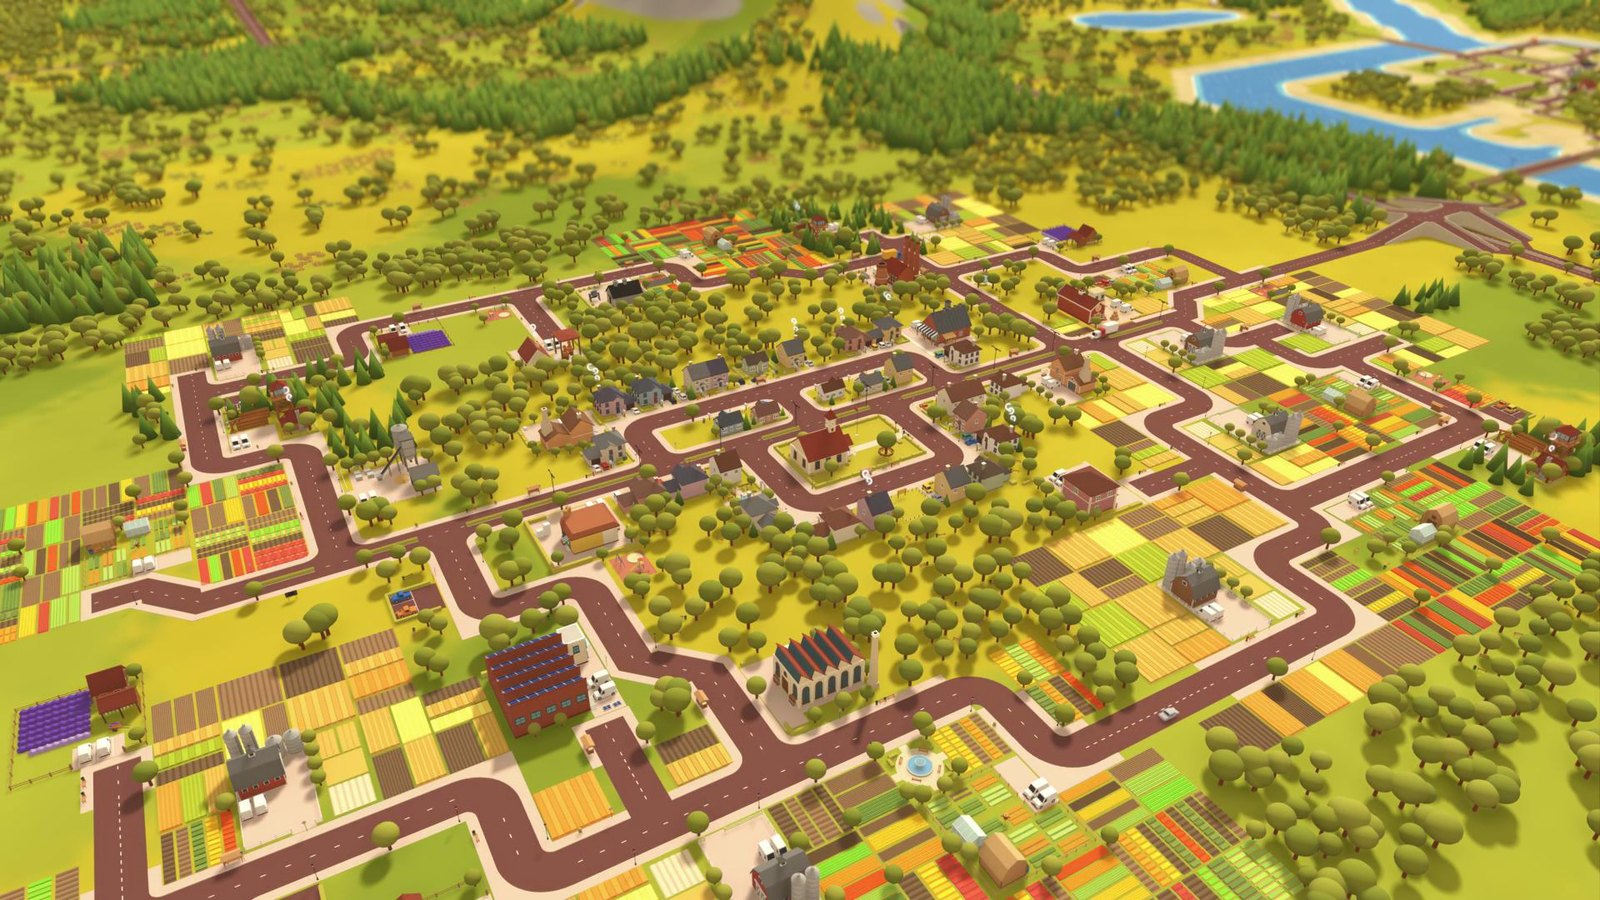
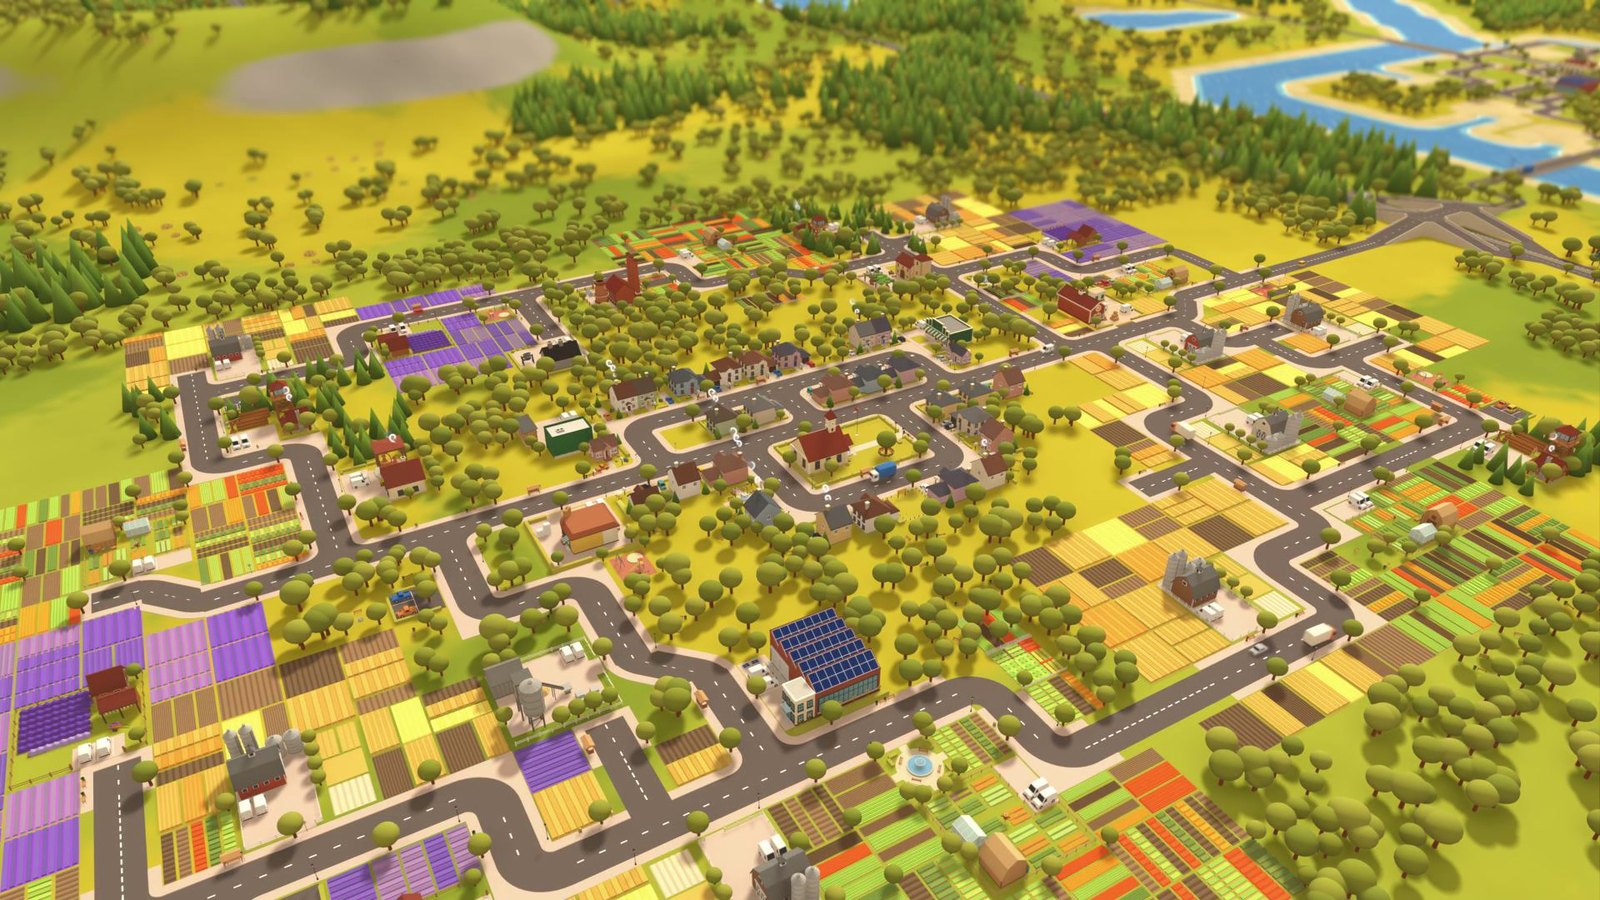
Screenshots and cover from Build 14 (new models, the smaller Kings Harbour)

diff --git a/index.html b/index.html
@@ -7,11 +7,11 @@
 <meta name="description" content="RushTown is a cozy mobile logistics game: build production chains, run your own vans and trucks, and help the villages and towns of a river valley thrive.">
 <meta property="og:title" content="RushTown">
 <meta property="og:description" content="Run a cozy logistics company in a living valley. A mobile game for Android, in testing now.">
-<meta property="og:image" content="https://rushtowngame.com/media/hero-small.jpg?v=20261010">
+<meta property="og:image" content="https://rushtowngame.com/media/hero-small.jpg?v=20261011">
 <meta property="og:url" content="https://rushtowngame.com/">
 <meta name="theme-color" content="#FBE9D2">
 <link rel="icon" href="media/logo.png">
-<link rel="preload" as="image" href="media/hero.jpg?v=20261010">
+<link rel="preload" as="image" href="media/hero.jpg?v=20261011">
 <link rel="stylesheet" href="site.css">
 </head>
 <body>
@@ -30,9 +30,9 @@
 
 <main>
   <!-- HERO. When the trailer is final, swap the div.bg for:
-       <video class="bg" src="media/trailer-loop.mp4" poster="media/hero.jpg?v=20261010" autoplay muted loop playsinline></video> -->
+       <video class="bg" src="media/trailer-loop.mp4" poster="media/hero.jpg?v=20261011" autoplay muted loop playsinline></video> -->
   <section class="hero">
-    <div class="bg" style="background-image:url('media/hero.jpg?v=20261010')" role="img" aria-label="Maplebrook, a farming village by the river"></div>
+    <div class="bg" style="background-image:url('media/hero.jpg?v=20261011')" role="img" aria-label="Maplebrook, a farming village by the river"></div>
     <div class="inner">
       <img class="logo" src="media/logo.png" alt="RushTown" width="560" height="279">
       <h1>Run a cozy logistics company in a living valley.</h1>
@@ -60,19 +60,19 @@
       <div class="slides">
         <div class="track" id="track">
           <article class="slide" id="s1">
-            <figure><img src="media/shots/chains.jpg?v=20261010" alt="Farm fields and workshops round a village" loading="lazy" width="1600" height="900"></figure>
+            <figure><img src="media/shots/chains.jpg?v=20261011" alt="Farm fields and workshops round a village" loading="lazy" width="1600" height="900"></figure>
             <div><span class="num">01 / 04</span><h3>Production chains</h3><p>Grain to flour to bread, sheep to wool to clothes. Every good has a chain, and every chain needs its places. Mills by the river even work faster.</p></div>
           </article>
           <article class="slide" id="s2">
-            <figure><img src="media/shots/fleet.jpg?v=20261010" alt="A village street with homes and shops" loading="lazy" width="1600" height="900"></figure>
+            <figure><img src="media/shots/fleet.jpg?v=20261011" alt="A village street with homes and shops" loading="lazy" width="1600" height="900"></figure>
             <div><span class="num">02 / 04</span><h3>Your own fleet</h3><p>Vans and trucks drive real roads between farms, workshops, warehouses and towns. You plan the routes, stop by stop.</p></div>
           </article>
           <article class="slide" id="s3">
-            <figure><img src="media/shots/homes.jpg?v=20261010" alt="A town at night, its windows lit" loading="lazy" width="1600" height="900"></figure>
+            <figure><img src="media/shots/homes.jpg?v=20261011" alt="A town at night, its windows lit" loading="lazy" width="1600" height="900"></figure>
             <div><span class="num">03 / 04</span><h3>Homes move up</h3><p>Households move in when you keep them supplied. Bring the right goods and building materials, and homes climb their ladder all the way to tower villas.</p></div>
           </article>
           <article class="slide" id="s4">
-            <figure><img src="media/shots/valley.jpg?v=20261010b" alt="The whole river valley in the morning" loading="lazy" width="1600" height="900"></figure>
+            <figure><img src="media/shots/valley.jpg?v=20261011" alt="The whole river valley in the morning" loading="lazy" width="1600" height="900"></figure>
             <div><span class="num">04 / 04</span><h3>A valley to open up</h3><p>New villages and towns come out from under the clouds as your homes move up, from the hills down to the sea.</p></div>
           </article>
         </div>
@@ -106,7 +106,7 @@
   <svg class="wave" viewBox="0 0 1440 60" preserveAspectRatio="none" aria-hidden="true" style="background:#F5D9AE"><path fill="#6d8f4a" d="M0 34 C 300 64 560 10 820 28 S 1240 54 1440 20 V60 H0 Z"/></svg>
 
   <!-- VALLEY BAND + STATS -->
-  <section class="valley" style="background-image:url('media/shots/valley.jpg?v=20261010b')">
+  <section class="valley" style="background-image:url('media/shots/valley.jpg?v=20261011')">
     <div class="wrap">
       <h2>From the hills down to the sea</h2>
       <p>A winding river valley of villages, towns and Kings Harbour on the coast. Start far upriver and work your way down to the sea.</p>
@@ -125,15 +125,15 @@
       <h2 class="title">Latest updates</h2>
       <div class="news">
         <a class="card" href="https://discord.gg/n6D7HrCAY">
-          <img src="media/shots/fleet.jpg?v=20261010" alt="" loading="lazy" width="1600" height="900">
+          <img src="media/shots/fleet.jpg?v=20261011" alt="" loading="lazy" width="1600" height="900">
           <div><time datetime="2026-10-05">5 Oct 2026</time><h3>Build 6: crash logs</h3><p>If the game ever closes, copy its log in one tap and send it to us in Discord.</p></div>
         </a>
         <a class="card" href="https://discord.gg/n6D7HrCAY">
-          <img src="media/shots/homes.jpg?v=20261010" alt="" loading="lazy" width="1600" height="900">
+          <img src="media/shots/homes.jpg?v=20261011" alt="" loading="lazy" width="1600" height="900">
           <div><time datetime="2026-10-04">4 Oct 2026</time><h3>Build 4: quality of life</h3><p>A new build bar, Anno-style statistics, trend marks on needs and homes that move up by themselves.</p></div>
         </a>
         <a class="card" href="https://discord.gg/n6D7HrCAY">
-          <img src="media/shots/valley.jpg?v=20261010b" alt="" loading="lazy" width="1600" height="900">
+          <img src="media/shots/valley.jpg?v=20261011" alt="" loading="lazy" width="1600" height="900">
           <div><time datetime="2026-10-04">4 Oct 2026</time><h3>Build 3: the river valley</h3><p>A brand-new map down to the sea, fish and riverside mills, vans and trucks, and the story all the way to the end.</p></div>
         </a>
       </div>
